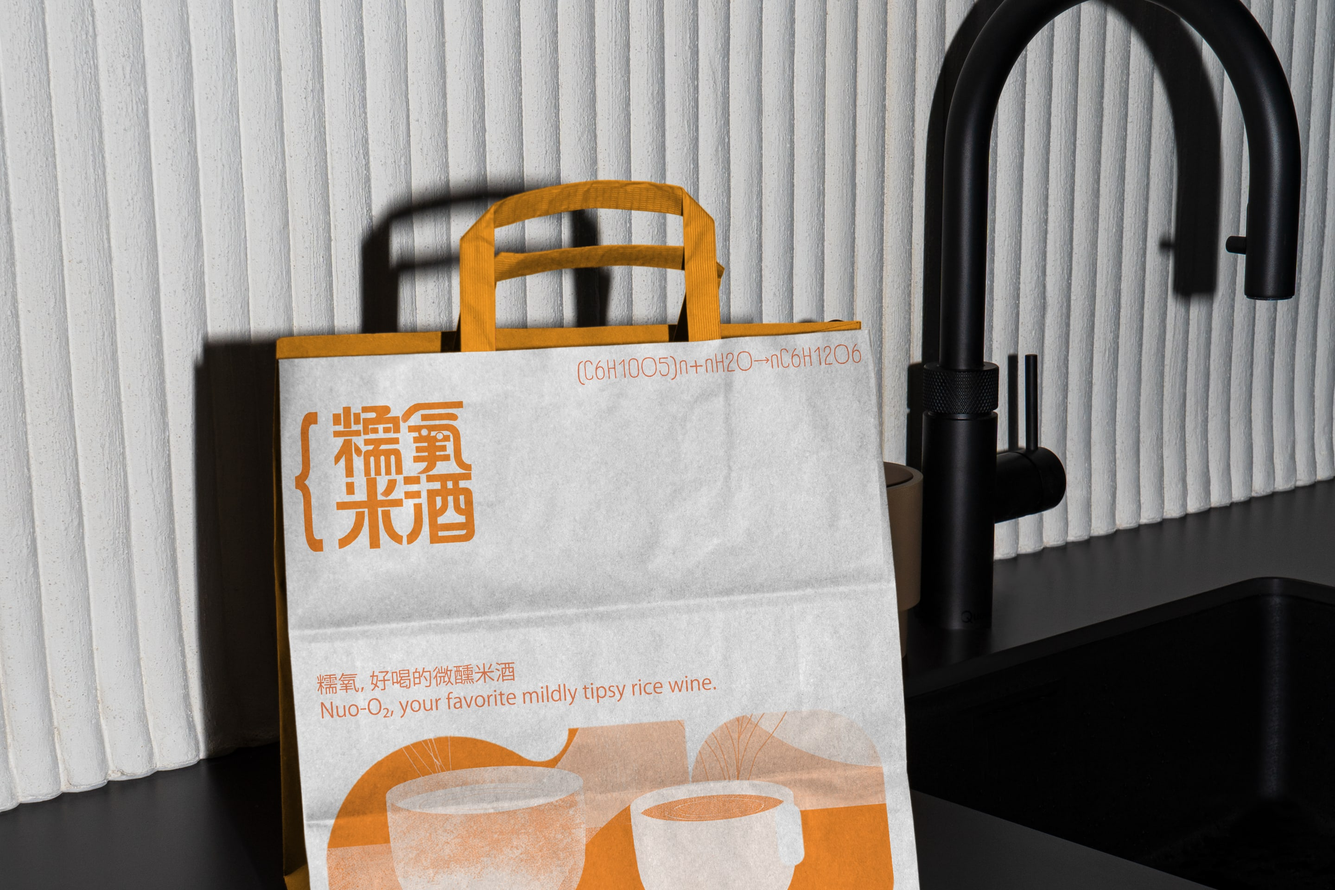
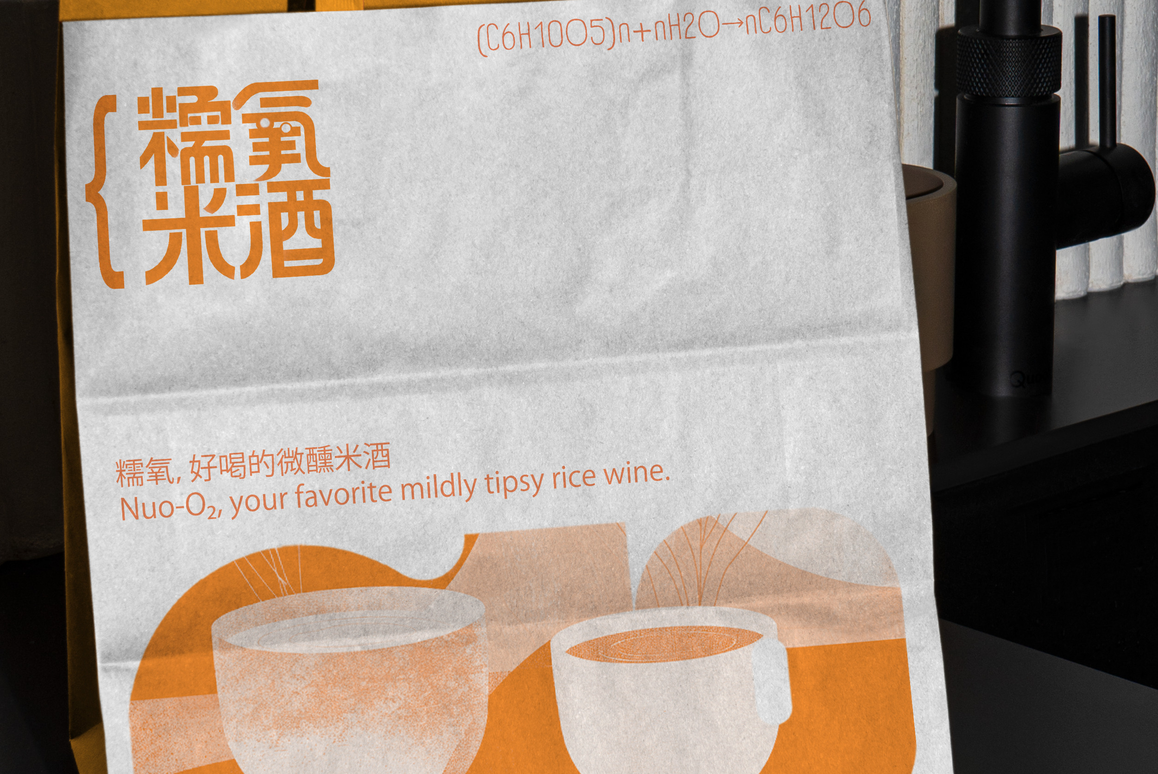
Put NUO2 on one ground per section and crop to the subject
The in-use section stacked three light grounds: a mint field, a white
card, and the product shot's own baked-in white. Measured, all four
shots are #FFFFFF at the corners and .card has no background of its
own, so the white frame was the image itself and no field colour could
hide it. Keying is out because the tee is white. White is the only
ground that makes that layer disappear.

With the frames gone the 16:9 padding stopped earning anything — the
subjects filled 42-65% of the width, so half the resolution was white.
Recropped from the 3000x2000 sources at subject plus 9%, now 85%.

The identity marks were sized at 26/44/34rem, which measured 416/704/544
in a 739px field: the mark had 18px of cream either side and read as
clipped, while the same fixed values go small on a wide screen.
Percentages hold the relationship at any width, and the lockup sheet
moved to paper because a page of three lockups is not the same kind of
object as a single mark.

The hero was a 928px illustration across a 1280px bleed, and its alt
said "the range". The bag photograph is the only real one in the set.
Its detail crop replaces the full view in the in-use section so the two
are not the same picture twice.

Green plum was the only illustration with a white frame painted in
(edges 249-255 against 165-223 for the other six). The first detector
required a whole row above threshold and one stray pixel stopped it;
row means find it.

diff --git a/src/content/projects/nuo2/index.md b/src/content/projects/nuo2/index.md
@@ -17,8 +17,12 @@ ground: paper
 surface: merge
 
 gallery:
-  - image: ./hero-01.jpg        # 全家福 —— 七个口味一张讲完
-    alt: NUO2 — the range
+  # 首图换成外卖袋的真实照片（4000x6000 原图裁 1.40 横幅）。
+  # 原来放的是 928x1232 的主插画铺满 1280 通栏 —— 2.76 倍放大，
+  # 整页第一眼就是糊的；而 alt 写的是 the range（七瓶全家福），对不上。
+  # 全套素材里只有这张是真照片，也是整个项目最强的一张。
+  - image: ./hero-01.jpg
+    alt: The takeaway bag on a kitchen counter
 
 cover: ./card.jpg
 draft: false
@@ -44,39 +48,51 @@ draft: false
 Four characters rebuilt as one geometric block, compact enough to read at 8mm
 on a bottle neck and soft enough to still feel hand-made.
 
-<!-- 标志、符号、组合全部收进板岩灰的色域里。
-     两个好处同时发生：橙色压在深色上最亮，而窄槽位让 1500px 的符号
-     和 1900px 的组合不再被放大 —— 之前它们在通栏里是 0.55 和 0.70 倍。 -->
-
-<!-- 三件东西的比例差太远（0.96 / 2.28 / 1.17），所以一个一行，
-     各按自己的形状取宽：方的给方块，宽扁的给宽带，组合给中段。
-     并排试过，符号下面空掉两百多像素 —— 量出来是 567x249 对 567x484。 -->
-
 <!-- 底色用奶油，不用板岩灰。
      这个牌子自己的底就是奶油纸 —— 标签、海报、杯套全部是橙字印在上面。
      板岩灰在她的色彩系统里是文字色，我把它当整屏底色用错了：
      那个带蓝绿的灰和橙色互相发浑，而且 LUMI 那套参考几乎没有深色，
-     它是大量白加几个彩色时刻。 -->
+     它是大量白加几个彩色时刻。
+     三张都是透明底（透明 43% / 9% / 38%），所以直接浮在奶油上，不要裱边。 -->
+
+<!-- 宽度给百分比，不给 rem。
+     之前是 26rem / 44rem / 34rem —— 在 820px 的窗口里量出来是
+     416 / 704 / 544，而色域只有 739 宽，符号左右各剩 18px，
+     读起来就是挤爆了；反过来在宽屏上这三个定值又全都偏小。
+     百分比让这组关系在任何宽度下都不变。
+
+     符号给 64%，字标给 32%，正好是一半 —— 两个数字之间有关系，
+     不是各自挑好看的。不按等高对齐：符号的墨占到画面 90%，
+     字标只有 56%，等高排的话符号会把字标压死。
+     现在字标 246 高、符号 207 高，轻的那个高一点，才读得一样重。 -->
 
 <div class="field" style="--field: #FFE7C2; --field-ink: #2F3F47">
 
-<div class="chip" style="--w: 26rem">
+<div class="chip" style="--w: 32%">
 
 ![Logotype](./a-logotype.png)
 
 </div>
 
-<div class="chip" style="--w: 44rem">
+<div class="chip" style="--w: 64%">
 
 ![The NUO2 graphic mark](./a-mark.png)
 
 </div>
 
-<div class="chip" style="--w: 34rem">
+</div>
+
+Three approved lockups, and the only three. Everything else on the bottle, the
+bag and the cup sleeve is built from these.
+
+<!-- 组合图从色域里搬出来了。
+     它和上面两张不是同一类东西：那两张是单件标志，这张是一整页规范，
+     本身就有三行内容。和单件并排只会让三行里的每一行都变小。
+     放在纸上单独一行，76% 宽 —— 1900px 的原图够这个槽位用。 -->
+
+<div class="chip" style="--w: 76%">
 
 ![Three approved lockups](./a-lockups.png)
-
-</div>
 
 </div>
 
@@ -145,8 +161,9 @@ of seven pictures. The direction is the work.
      看着是有意为之，而且没有空位。
 
      这一节不上色域：整页的彩色时刻要稀缺才有力。
-     A 栏奶油、色卡本身、E 栏薄荷，三处够了 —— 再加一块，
-     整页就从「大量白加几个彩色瞬间」变成「一块块颜色」。 -->
+     A 栏的渐变、A 栏的奶油、B 栏的色卡，三处够了 —— 再加一块，
+     整页就从「大量白加几个彩色瞬间」变成「一块块颜色」。
+     而这七张本来就是整页最有颜色的东西，不需要底色帮忙。 -->
 
 <div class="rows-4">
 
@@ -240,28 +257,51 @@ the logotype only has to appear once.
      这一节对求职权重最高：它证明这套东西离开了屏幕。
 
      外卖袋是唯一的真实环境照（4000×6000，厨房台面），给它整条出血。
-     其余四张是白底产品图 —— 压在纸上读起来是「没做完」，压在色域上
-     就成了有意为之，而且主体放进更窄的槽位之后反倒更锐。
-     每张都补成 16:9 的白卡，一点没裁。
+     整袋入画那一版挪去当首图了，这里换成细节特写 ——
+     同一张照片出两个近乎一样的构图是重复，而特写讲的是另一件事：
+     牛皮纸的纤维、橙墨压在上面的样子、折痕、小字印的化学式。
+     其余四张从 3000x2000 的原图重裁（海报 1/2 是 PSD，sips 先拍平）。
+     之前每张都补成 16:9 的白卡，是为了让几条可见的卡边对齐；
+     底色换成纯白、卡边看不见之后，那圈白边就不换任何东西了 ——
+     量出来主体只占 42% / 65% / 49% / 49% 的宽，一半分辨率浪费在白上。
+     现在按主体外扩 9% 裁，四张都是 85% 占宽。
+     留 9% 而不是贴边：没有框了，主体不能顶着槽位边缘，柔影也要地方。
+     取框阈值用 250 不用 248，为的是把淡影子一起框进来 ——
+     影子裁掉了，主体就浮着没有重量。
 
-     底色用薄荷不用板岩灰：白卡要和底分得开，而薄荷是这套色里
-     唯一既够浅又不是白的那一个 —— 和橙色也是品牌自己的对比关系。 -->
+     这一节整块给纯白，不给彩色域。
+     彩色域在这里必然制造三层底：色域 → 图片自己的白 → 主体。
+     量过，这四张的四角都是 #FFFFFF 烤死在图里的，.card 本身没有背景，
+     所以「白卡」就是图片自己 —— 底色换成什么，白框都还在。
+     板岩灰试过、薄荷试过，都一样别扭。
+     抠白在这儿也行不通：T 恤本身就是白的，抠白会把衣服吃掉。
+
+     纯白是唯一能让这层白消失的底。四张整块融进去，主体直接浮着，
+     一个框都没有。杯套是 #F8F5E6（它自己的奶油纸），差 8 级，看不见。
+     白压在 #F7F8F7 的纸上只是轻微提亮，读起来像这一节被照亮了,
+     对一个叫糯氧、参考叫 A Glow 的项目正好。
+     LUMI 那套案例的产品页也是纯白的。 -->
 
 <div class="bleed">
 
-![Takeaway bag on a kitchen counter](./e-bag.jpg)
+![The bag up close: orange ink on kraft, with the formula printed small](./e-bag.jpg)
 
 </div>
 
-<div class="field" style="--field: #90D2C3; --field-ink: #2F3F47">
+<!-- 槽位宽度给百分比，按每张自己的比例定，不再统一通栏。
+     举着的那张是 1.15 的竖构图，给 56%；两张平面海报是 1.49 的横构图，
+     给 86% —— 它们各占一行，比例不同没关系。
+     两件 T 恤要并排，比例必须一致，量过是 1.112 对 1.112。 -->
 
-<div class="card">
+<div class="field" style="--field: #FFFFFF; --field-ink: #2F3F47">
+
+<div class="chip" style="--w: 56%">
 
 ![A poster held up, actual size](./e-poster-held.jpg)
 
 </div>
 
-<div class="card">
+<div class="chip" style="--w: 86%">
 
 ![Two posters, flat and pasted](./e-poster.jpg)
 
@@ -275,7 +315,10 @@ the logotype only has to appear once.
 
 </div>
 
-<div class="card">
+<!-- 杯套只有 1500px，通栏（992 槽位要 1984）会放大到 0.76 倍。
+     给 74% —— 734 的槽位要 1468，刚好够。 -->
+
+<div class="chip" style="--w: 74%">
 
 ![Cup sleeve — the bilingual tagline lockup](./e-cup-sleeve.jpg)
 
